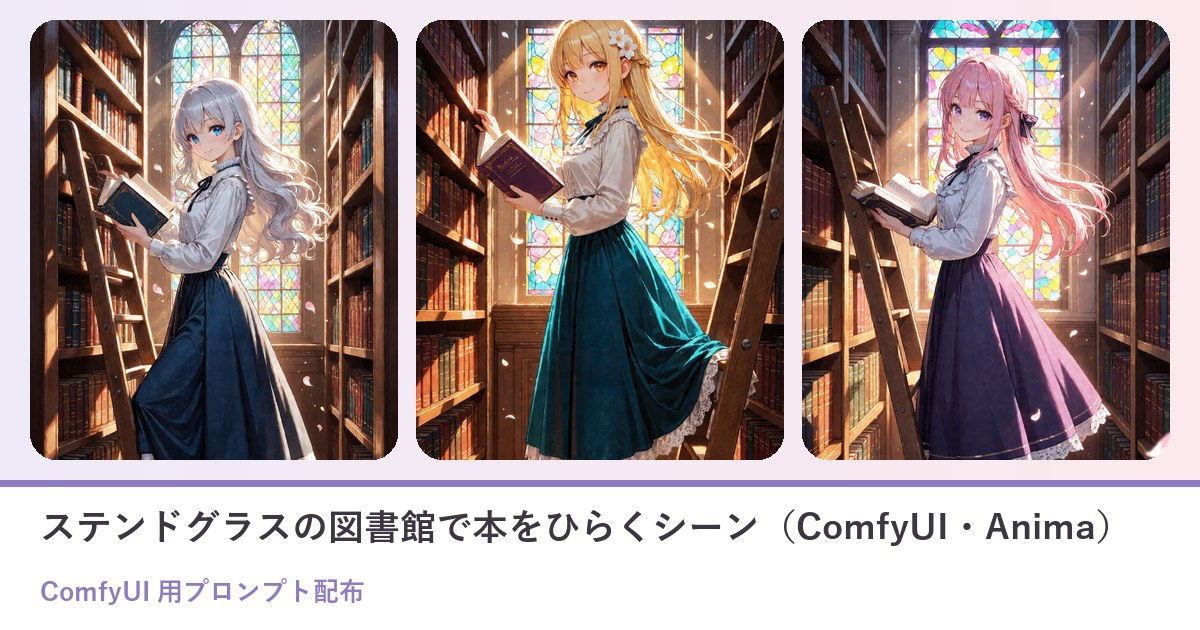
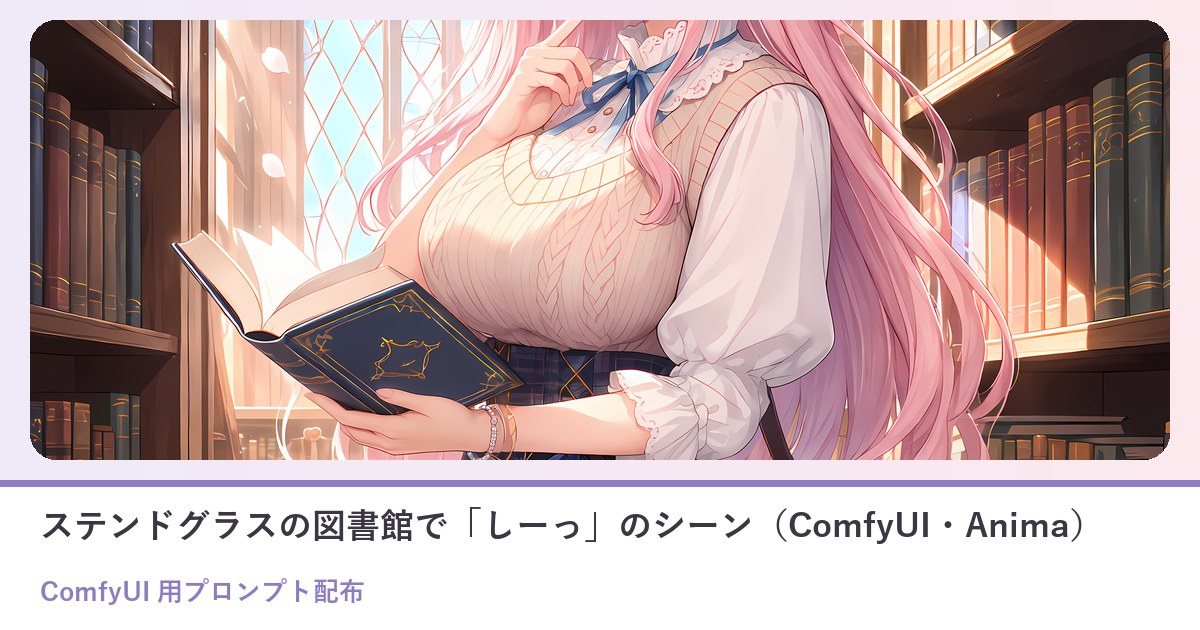
プロンプト配布 10/01 三姉妹 ComfyUI を1枚・LoRA あり／なしに作り直し

diff --git a/prompts/2026-10-01-comfy-y6y0rg0n.html b/prompts/2026-10-01-comfy-y6y0rg0n.html
@@ -1,4 +1,4 @@
-<!DOCTYPE html><html lang="ja"><head><meta charset="UTF-8"><meta name="robots" content="noindex, nofollow, noarchive"><meta name="referrer" content="strict-origin"><meta name="viewport" content="width=device-width, initial-scale=1.0"><meta name="google-site-verification" content="vmr51R1zcK5z3btUMgFGf_4-Veo8pUE7TCdoEpaSpaI"><title>ステンドグラスの図書館で本をひらくシーン（ComfyUI・Anima）</title><meta name="description" content="高い本棚とはしごの並ぶ図書館で、ステンドグラスの色の光を浴びながら本をひらいてふり返る、午後のシーンのプロンプトです。オリキャラがいなくても、そのまま貼るだけで綺麗な女の子で出ます。自分のキャラにしたいときは、1行目の見"><link rel="icon" href="../favicon.ico" sizes="any"><link rel="icon" type="image/png" sizes="32x32" href="../favicon-32x32.png"><link rel="apple-touch-icon" href="../apple-touch-icon.png"><link rel="canonical" href="https://lupinusrossetti.github.io/AIBSPortfolioBlog/prompts/2026-10-01-comfy-y6y0rg0n.html"><meta property="og:type" content="article"><meta property="og:site_name" content="Lupinus Rossetti | AI Bloom Sisters"><meta property="og:title" content="ステンドグラスの図書館で本をひらくシーン（ComfyUI・Anima）"><meta property="og:description" content="高い本棚とはしごの並ぶ図書館で、ステンドグラスの色の光を浴びながら本をひらいてふり返る、午後のシーンのプロンプトです。オリキャラがいなくても、そのまま貼るだけで綺麗な女の子で出ます。自分のキャラにしたいときは、1行目の見"><meta property="og:url" content="https://lupinusrossetti.github.io/AIBSPortfolioBlog/prompts/2026-10-01-comfy-y6y0rg0n.html"><meta property="og:image" content="https://lupinusrossetti.github.io/AIBSPortfolioBlog/prompts/img/2026-10-01-comfy-y6y0rg0n/og.jpg"><meta name="twitter:card" content="summary_large_image"><meta name="twitter:site" content="@irisfionaAIBS"><meta name="twitter:title" content="ステンドグラスの図書館で本をひらくシーン（ComfyUI・Anima）"><meta name="twitter:description" content="高い本棚とはしごの並ぶ図書館で、ステンドグラスの色の光を浴びながら本をひらいてふり返る、午後のシーンのプロンプトです。オリキャラがいなくても、そのまま貼るだけで綺麗な女の子で出ます。自分のキャラにしたいときは、1行目の見"><meta name="twitter:image" content="https://lupinusrossetti.github.io/AIBSPortfolioBlog/prompts/img/2026-10-01-comfy-y6y0rg0n/og.jpg"><script type="application/ld+json">{"@context": "https://schema.org", "@type": "Article", "headline": "ステンドグラスの図書館で本をひらくシーン（ComfyUI・Anima）", "description": "高い本棚とはしごの並ぶ図書館で、ステンドグラスの色の光を浴びながら本をひらいてふり返る、午後のシーンのプロンプトです。オリキャラがいなくても、そのまま貼るだけで綺麗な女の子で出ます。自分のキャラにしたいときは、1行目の見", "image": "https://lupinusrossetti.github.io/AIBSPortfolioBlog/prompts/img/2026-10-01-comfy-y6y0rg0n/og.jpg", "url": "https://lupinusrossetti.github.io/AIBSPortfolioBlog/prompts/2026-10-01-comfy-y6y0rg0n.html", "mainEntityOfPage": "https://lupinusrossetti.github.io/AIBSPortfolioBlog/prompts/2026-10-01-comfy-y6y0rg0n.html", "author": {"@type": "Person", "name": "Lupinus Rossetti"}, "publisher": {"@type": "Organization", "name": "Lupinus Rossetti | AI Bloom Sisters", "logo": {"@type": "ImageObject", "url": "https://lupinusrossetti.github.io/AIBSPortfolioBlog/apple-touch-icon.png"}}, "inLanguage": "ja-JP"}</script><link rel="stylesheet" href="../assets/css/site.css"><link rel="stylesheet" href="../assets/css/decorations.css"><link rel="preconnect" href="https://fonts.googleapis.com"><link rel="preconnect" href="https://fonts.gstatic.com" crossorigin><link href="https://fonts.googleapis.com/css2?family=Great+Vibes&family=Cormorant+Garamond:ital,wght@0,400;0,500;0,600;1,400;1,500&family=Jost:wght@300;400;500&family=Shippori+Mincho:wght@400;500;600&family=Zen+Kaku+Gothic+New:wght@300;400;500&family=Zen+Maru+Gothic:wght@400;500;700&display=swap" rel="stylesheet"><style>:root{--ps-a:var(--lupinus,#8e7cc3);--ps-soft:var(--lupinus-soft,#efeaf8);--ps-line:var(--line,#ece7f1);--ps-ink:var(--ink-soft,#6f6a78)}
+<!DOCTYPE html><html lang="ja"><head><meta charset="UTF-8"><meta name="robots" content="noindex, nofollow, noarchive"><meta name="referrer" content="strict-origin"><meta name="viewport" content="width=device-width, initial-scale=1.0"><meta name="google-site-verification" content="vmr51R1zcK5z3btUMgFGf_4-Veo8pUE7TCdoEpaSpaI"><title>ステンドグラスの図書館で「しーっ」のシーン（ComfyUI・Anima）</title><meta name="description" content="ステンドグラスの光がさしこむ図書館で、本を片手に唇へ指をあてて「しーっ」と微笑む、午後のシーンのプロンプトです。LoRA が無くても、A をそのまま貼るだけで綺麗な女の子で出ます。自分のキャラの LoRA を持っている人"><link rel="icon" href="../favicon.ico" sizes="any"><link rel="icon" type="image/png" sizes="32x32" href="../favicon-32x32.png"><link rel="apple-touch-icon" href="../apple-touch-icon.png"><link rel="canonical" href="https://lupinusrossetti.github.io/AIBSPortfolioBlog/prompts/2026-10-01-comfy-y6y0rg0n.html"><meta property="og:type" content="article"><meta property="og:site_name" content="Lupinus Rossetti | AI Bloom Sisters"><meta property="og:title" content="ステンドグラスの図書館で「しーっ」のシーン（ComfyUI・Anima）"><meta property="og:description" content="ステンドグラスの光がさしこむ図書館で、本を片手に唇へ指をあてて「しーっ」と微笑む、午後のシーンのプロンプトです。LoRA が無くても、A をそのまま貼るだけで綺麗な女の子で出ます。自分のキャラの LoRA を持っている人"><meta property="og:url" content="https://lupinusrossetti.github.io/AIBSPortfolioBlog/prompts/2026-10-01-comfy-y6y0rg0n.html"><meta property="og:image" content="https://lupinusrossetti.github.io/AIBSPortfolioBlog/prompts/img/2026-10-01-comfy-y6y0rg0n/og.jpg"><meta name="twitter:card" content="summary_large_image"><meta name="twitter:site" content="@irisfionaAIBS"><meta name="twitter:title" content="ステンドグラスの図書館で「しーっ」のシーン（ComfyUI・Anima）"><meta name="twitter:description" content="ステンドグラスの光がさしこむ図書館で、本を片手に唇へ指をあてて「しーっ」と微笑む、午後のシーンのプロンプトです。LoRA が無くても、A をそのまま貼るだけで綺麗な女の子で出ます。自分のキャラの LoRA を持っている人"><meta name="twitter:image" content="https://lupinusrossetti.github.io/AIBSPortfolioBlog/prompts/img/2026-10-01-comfy-y6y0rg0n/og.jpg"><script type="application/ld+json">{"@context": "https://schema.org", "@type": "Article", "headline": "ステンドグラスの図書館で「しーっ」のシーン（ComfyUI・Anima）", "description": "ステンドグラスの光がさしこむ図書館で、本を片手に唇へ指をあてて「しーっ」と微笑む、午後のシーンのプロンプトです。LoRA が無くても、A をそのまま貼るだけで綺麗な女の子で出ます。自分のキャラの LoRA を持っている人", "image": "https://lupinusrossetti.github.io/AIBSPortfolioBlog/prompts/img/2026-10-01-comfy-y6y0rg0n/og.jpg", "url": "https://lupinusrossetti.github.io/AIBSPortfolioBlog/prompts/2026-10-01-comfy-y6y0rg0n.html", "mainEntityOfPage": "https://lupinusrossetti.github.io/AIBSPortfolioBlog/prompts/2026-10-01-comfy-y6y0rg0n.html", "author": {"@type": "Person", "name": "Lupinus Rossetti"}, "publisher": {"@type": "Organization", "name": "Lupinus Rossetti | AI Bloom Sisters", "logo": {"@type": "ImageObject", "url": "https://lupinusrossetti.github.io/AIBSPortfolioBlog/apple-touch-icon.png"}}, "inLanguage": "ja-JP"}</script><link rel="stylesheet" href="../assets/css/site.css"><link rel="stylesheet" href="../assets/css/decorations.css"><link rel="preconnect" href="https://fonts.googleapis.com"><link rel="preconnect" href="https://fonts.gstatic.com" crossorigin><link href="https://fonts.googleapis.com/css2?family=Great+Vibes&family=Cormorant+Garamond:ital,wght@0,400;0,500;0,600;1,400;1,500&family=Jost:wght@300;400;500&family=Shippori+Mincho:wght@400;500;600&family=Zen+Kaku+Gothic+New:wght@300;400;500&family=Zen+Maru+Gothic:wght@400;500;700&display=swap" rel="stylesheet"><style>:root{--ps-a:var(--lupinus,#8e7cc3);--ps-soft:var(--lupinus-soft,#efeaf8);--ps-line:var(--line,#ece7f1);--ps-ink:var(--ink-soft,#6f6a78)}
 .ps{max-width:780px;margin:0 auto;padding:0 18px 40px}
 .ps h2{font-size:1.25rem;margin:40px 0 12px;color:var(--ps-a)}
 .ps .ps-lead{color:var(--ps-ink);line-height:1.9}
@@ -44,10 +44,12 @@
 .ps-r18{border:2px solid #ff7fae;background:#241832;color:#f6ecfa;border-radius:16px;padding:14px 16px;line-height:1.8}
 @media(max-width:560px){.ps-ba{grid-template-columns:1fr}.ps-ba .arr{transform:rotate(90deg);text-align:center}.ps-vars,.ps-vars tbody,.ps-vars tr,.ps-vars th,.ps-vars td{display:block;width:auto;white-space:normal}.ps-vars tr:first-child{display:none}.ps-vars tr{border-bottom:1px solid var(--ps-line);padding:4px 0}.ps-vars th,.ps-vars td{border:0;padding:6px 12px}}
 .ps{overflow-wrap:anywhere}.ps-vars td,.ps-vars th{overflow-wrap:anywhere}.ps img{max-width:100%}
-</style><!--ps-meta {"date": "2026-10-01", "title": "ステンドグラスの図書館で本をひらくシーン（ComfyUI・Anima）", "kind": "comfy", "nsfw": false, "summary": "ステンドグラスの光がさす図書館で、本をひらいてふり返る午後の一枚。貼るだけで作れます。", "thumb": "img/2026-10-01-comfy-y6y0rg0n/ex1.webp"}-->
-</head><body class="decor-page decor-bubble"><div class="page-decor" aria-hidden="true"><div class="decor-layer decor-bubble-layer"><i></i><i></i><i></i><i></i><i></i><i></i><i></i><i></i><i></i><i></i><i></i><i></i></div></div><header class="site-header"><div class="container"><a class="brand" href="../index.html"><span class="brand-script">Lupinus</span><span class="brand-sub">AI Bloom Sisters</span></a><button class="menu-toggle" aria-label="menu" onclick="document.getElementById('nav').classList.toggle('open')">≡</button><nav class="nav" id="nav"><a href="../index.html">Home</a><a href="../about.html">About</a><a href="../portfolio.html">Portfolio</a><a href="../gallery.html">Gallery</a><a href="../blog/index.html" class="active">Blog</a><a href="../sns.html">SNS</a><a href="../coming-soon.html">Contact</a></nav></div></header><main class="article"><header class="article-header"><div class="date">2026-10-01<span class="day-chip">プロンプト配布</span></div><h1>ステンドグラスの図書館で本をひらくシーン（ComfyUI・Anima）</h1></header><div class="article-body"><div class="ps"><p><span class="ps-badge">ComfyUI 用</span><span class="ps-badge">2026-10-01</span></p><p class="ps-lead">高い本棚とはしごの並ぶ図書館で、ステンドグラスの色の光を浴びながら本をひらいてふり返る、午後のシーンのプロンプトです。オリキャラがいなくても、そのまま貼るだけで綺麗な女の子で出ます。自分のキャラにしたいときは、1行目の見た目だけ書き換えてください。</p><nav class="ps-toc" aria-label="目次"><p>📑 目次</p><ol><li><a href="#sec1">作例</a></li><li><a href="#sec2">3人のおしゃべり（図書館ではお静かに）</a></li><li><a href="#sec3">使い方（3ステップ）</a></li><li><a href="#sec4">プロンプト</a></li><li><a href="#sec5">必要なもの（ComfyUI）</a></li><li><a href="#sec6">メモ</a></li><li><a href="#sec7">配布ルール</a></li><li><a href="#sec8">バックナンバー</a></li></ol></nav><h2 id="sec1">作例</h2><div class="ps-ex"><figure><img src="img/2026-10-01-comfy-y6y0rg0n/ex1.webp" alt="1行目そのまま（1girl, solo, long hair, wavy hair, silver hair, blue eyes）" loading="lazy"><figcaption>1行目そのまま（1girl, solo, long hair, wavy hair, silver hair, blue eyes）</figcaption></figure><figure><img src="img/2026-10-01-comfy-y6y0rg0n/ex2.webp" alt="1行目を「1girl, solo, long hair, blonde hair, hair flower, amber eyes」に" loading="lazy"><figcaption>1行目を「1girl, solo, long hair, blonde hair, hair flower, amber eyes」に</figcaption></figure><figure><img src="img/2026-10-01-comfy-y6y0rg0n/ex3.webp" alt="1行目を「1girl, solo, long hair, pink hair, braid, purple eyes」に" loading="lazy"><figcaption>1行目を「1girl, solo, long hair, pink hair, braid, purple eyes」に</figcaption></figure><figure><img src="img/2026-10-01-comfy-y6y0rg0n/ex4.webp" alt="1行目を「1girl, solo, short hair, brown hair, glasses, green eyes」に" loading="lazy"><figcaption>1行目を「1girl, solo, short hair, brown hair, glasses, green eyes」に</figcaption></figure></div><p style="font-size:.82rem;color:var(--ps-ink)">※作例の画像の転載・保存しての再配布はご遠慮ください。</p><h2 id="sec2">3人のおしゃべり（図書館ではお静かに）</h2><div class="ps-chat"><img src="img/2026-10-01-comfy-y6y0rg0n/talk_iris_laugh.webp" alt="アイリス" loading="lazy"><div><div class="who">アイリス</div><div class="bub">見て見て！ ステンドグラスの光が床まで虹色になってる！ あたしもここで本読みたい〜！</div></div></div><div class="ps-chat r"><img src="img/2026-10-01-comfy-y6y0rg0n/talk_fiona_shy.webp" alt="フィオナ" loading="lazy"><div><div class="who">フィオナ</div><div class="bub">高い本棚とはしご……花びらまで舞っていて、物語の中の図書館みたいです</div></div></div><div class="ps-chat r"><img src="img/2026-10-01-comfy-y6y0rg0n/talk_lupinus_happy.webp" alt="ルピナス" loading="lazy"><div><div class="who">ルピナス</div><div class="bub">1行目の髪の色や眼鏡を書き換えるだけで、金髪にも、ピンクの三つ編みにも、眼鏡の女の子にもなりますよ</div></div></div><div class="ps-chat"><img src="img/2026-10-01-comfy-y6y0rg0n/talk_iris_devious.webp" alt="アイリス" loading="lazy"><div><div class="who">アイリス</div><div class="bub">ねえねえ、スカートの色が毎回ちがうよ？ 紺とか、青緑とか、紫とか！</div></div></div><div class="ps-chat r"><img src="img/2026-10-01-comfy-y6y0rg0n/talk_fiona_thinking.webp" alt="フィオナ" loading="lazy"><div><div class="who">フィオナ</div><div class="bub">決めたいときは、2行目のスカートの前に色を足せばいいみたいです……メモしておきますね</div></div></div><div class="ps-chat r"><img src="img/2026-10-01-comfy-y6y0rg0n/talk_lupinus_wink.webp" alt="ルピナス" loading="lazy"><div><div class="who">ルピナス</div><div class="bub">オリキャラがいなくても、そのまま貼るだけで大丈夫。図書館ではお静かに、ですよ</div></div></div><h2 id="sec3">使い方（3ステップ）</h2><ol class="ps-steps"><li>ComfyUI で Anima のモデルを読み、基本の画像生成（テキストから画像）の画面にする</li><li>下のポジティブとネガティブをワンタップでコピーして貼る（自分のキャラにするなら1行目だけ書き換える）</li><li>「推奨値」の大きさ・steps・CFG にして生成する（できれば 1.5 倍の hires fix も）</li></ol><h2 id="sec4">プロンプト</h2><div class="ps-note" style="margin-bottom:12px"><b>変えるのは1行目（色の付いた行）だけ</b><ul><li>1行目＝キャラの見た目（髪の色・髪型・目の色など）。自分のキャラの特徴に書き換えてね</li><li>オリキャラがいない人は、<b>そのまま</b>コピーして使えばOK（作例の女の子で出ます）</li><li>自分のキャラの LoRA がある人は、1行目に LoRA のトリガー語を入れてね</li><li>2行目から下（シーン）と、ネガティブプロンプトは変えずにそのまま</li><li>🚫 版権キャラの名前・版権キャラの LoRA を入れて使うのは固く禁止です（下の「配布ルール」）</li></ul></div><div class="ps-box"><button class="ps-copy" type="button" data-target="ps-prompt">📋 ワンタップでコピー</button><p style="margin:0 0 8px;font-size:.82rem;color:var(--ps-a)">ポジティブプロンプト</p><pre><mark class="ps-in" data-key="キャラの行">1girl, solo, long hair, wavy hair, silver hair, blue eyes</mark>
-masterpiece, best quality, score_7, safe, smile, looking at viewer, standing on ladder, library ladder, holding book, open book, hand on ladder, white blouse, frilled collar, neck ribbon, long skirt, lace trim, mary janes, from side, full body, library, tall bookshelves, bookshelf, stained glass window, colorful light, light rays, dappled light, dust particles, afternoon, sunlight, floating petals, depth of field, detailed background, scenery, cinematic lighting, warm colors</pre><textarea class="ps-copyarea" id="ps-prompt" readonly aria-hidden="true" tabindex="-1">1girl, solo, long hair, wavy hair, silver hair, blue eyes
-masterpiece, best quality, score_7, safe, smile, looking at viewer, standing on ladder, library ladder, holding book, open book, hand on ladder, white blouse, frilled collar, neck ribbon, long skirt, lace trim, mary janes, from side, full body, library, tall bookshelves, bookshelf, stained glass window, colorful light, light rays, dappled light, dust particles, afternoon, sunlight, floating petals, depth of field, detailed background, scenery, cinematic lighting, warm colors</textarea></div><div style="height:12px"></div><div class="ps-box"><button class="ps-copy" type="button" data-target="ps-negative">📋 ワンタップでコピー</button><p style="margin:0 0 8px;font-size:.82rem;color:var(--ps-a)">ネガティブプロンプト</p><pre>worst quality, low quality, lowres, bad anatomy, bad hands, extra fingers, missing fingers, fused fingers, blurry, jpeg artifacts, text, watermark, signature, logo, extra person, multiple girls, panties, pantyshot, cropped, out of frame, japanese text, chinese text, korean text, kanji, hiragana, katakana, calligraphy</pre><textarea class="ps-copyarea" id="ps-negative" readonly aria-hidden="true" tabindex="-1">worst quality, low quality, lowres, bad anatomy, bad hands, extra fingers, missing fingers, fused fingers, blurry, jpeg artifacts, text, watermark, signature, logo, extra person, multiple girls, panties, pantyshot, cropped, out of frame, japanese text, chinese text, korean text, kanji, hiragana, katakana, calligraphy</textarea></div><h2 id="sec5">必要なもの（ComfyUI）</h2><div class="ps-note">🧩 <b>カスタムノードは使っていません</b>。LoRA も要りません。ComfyUI の基本の画像生成（テキストから画像）に、ポジティブ・ネガティブを貼って、下の推奨値にするだけです。</div><table class="ps-vars" style="margin-top:12px"><tr><th>モデル</th><th>ファイル</th><th>置き場</th></tr><tr><td>Anima 系のモデル</td><td>PrismPalette_ANIMA_v1 など好きな Anima</td><td><code>models/diffusion_models</code></td></tr><tr><td>テキストエンコーダ（Anima 用）</td><td>qwen_3_06b_base.safetensors</td><td><code>models/text_encoders</code></td></tr><tr><td>VAE（Anima 用）</td><td>qwen_image_vae.safetensors</td><td><code>models/vae</code></td></tr></table><h2>推奨値</h2><table class="ps-vars"><tr><th>大きさ</th><td colspan="2">864×1536（縦長＝全身の立ち姿）</td></tr><tr><th>steps</th><td colspan="2">30</td></tr><tr><th>CFG</th><td colspan="2">4.5</td></tr><tr><th>sampler</th><td colspan="2">er_sde</td></tr><tr><th>scheduler</th><td colspan="2">beta</td></tr><tr><th>hires fix（任意）</th><td colspan="2">1.5 倍に拡大して denoise 0.4・同じ steps と CFG（作例はこれ）</td></tr><tr><th>LoRA</th><td colspan="2">要りません（自分のキャラの LoRA があれば使ってOK）</td></tr></table><h2 id="sec6">メモ</h2><ul class="ps-rules"><li>1行目には見た目だけを書いてください（髪の色・長さ・髪型・髪飾り・目の色・眼鏡など）。服・場所・光は2行目からに入っています。</li><li>手は本を持つ形にしてあるので、くずれにくくなっています。くずれたら seed を変えて何枚か焼いてください。</li><li>服の色は seed で変わります（紺・青緑・紫など）。決めたいときは2行目の long skirt の前に navy blue などの色を足してください。</li></ul><h2 id="sec7">配布ルール</h2><ul class="ps-rules"><li>⭕ プロンプトの改変は自由です。</li><li>⭕ 生成した画像は SNS に投稿して大丈夫です。</li><li>❌ プロンプト文そのものの転載・再配布・販売はしないでください。</li><li>❌ 自作のプロンプトだと名乗ることはやめてください。</li><li>❌ このページの作例画像の無断転載はしないでください。</li><li class="ps-rights">🚫 <b>アニメ・漫画・ゲームなどの版権キャラクター（著作権・商標のあるキャラ）、他の人のキャラクターやイラスト、実在の人物の写真を添付画像にして使うことは固く禁止します。</b>版権キャラの名前や、版権キャラの LoRA を入れて使うことも禁止です。</li><li>✅ 添付してよいのは、<b>自分で作ったキャラクター・自分が権利を持つ画像</b>（または権利者から使ってよいと言われた画像）だけです。</li><li>⚠ 生成した画像の使い方（投稿・公開など）は、使った人の責任でお願いします。権利の問題が起きても、配布者は責任を負えません。</li><li>💌 使ったら <b>#ルピナスプロンプト</b> を付けて見せてくれたら、とても嬉しいです（任意です）。</li></ul><h2 id="sec8">バックナンバー</h2><div class="ps-note">📚 これまでの配布は <a href="index.html"><b>バックナンバー</b></a> にまとめてあります（作例の絵と内容が一覧で見られます）。お友だちに教えるときは、バックナンバーのページの URL を送ればOKです。</div></div></div></main><footer class="site-footer"><div class="container"><div class="brand-script">Lupinus Rossetti</div><p class="tagline">AI Bloom Sisters &mdash; flower language: imagination</p><div class="sns-row"><a class="sns-link" href="https://x.com/irisfionaAIBS" target="_blank" rel="noopener"><span class="dot"></span>X (Twitter)</a><a class="sns-link" href="https://www.youtube.com/@AIBloomSisters" target="_blank" rel="noopener"><span class="dot"></span>YouTube</a><a class="sns-link" href="https://note.com/rupi_airupi" target="_blank" rel="noopener"><span class="dot"></span>note</a><a class="sns-link" href="https://lupinus-rossetti.fanbox.cc/" target="_blank" rel="noopener"><span class="dot"></span>FANBOX</a></div><p class="copy">&copy; 2026 AI Bloom Sisters. All rights reserved.</p><p style="font-size:.78em;color:var(--ink-faint);margin-top:8px"><a href="../privacy.html" style="color:var(--ink-faint)">プライバシーポリシー</a>　<a href="../stream-info.html" style="color:var(--ink-faint)">配信のご案内</a></p></div></footer><script>(function(){if(window.matchMedia&&window.matchMedia('(prefers-reduced-motion: reduce)').matches)return;var els=document.querySelectorAll('.reveal');if(!els.length||!('IntersectionObserver'in window))return;var io=new IntersectionObserver(function(es){es.forEach(function(e){if(e.isIntersecting){e.target.classList.add('is-visible');io.unobserve(e.target);}});},{rootMargin:'0px 0px -10% 0px'});els.forEach(function(el){io.observe(el);});})();</script><script>(function(){document.querySelectorAll('.ps-copy').forEach(function(b){
+</style><!--ps-meta {"date": "2026-10-01", "title": "ステンドグラスの図書館で「しーっ」のシーン（ComfyUI・Anima）", "kind": "comfy", "nsfw": false, "summary": "ステンドグラスの図書館で、本を片手に「しーっ」と微笑む午後の一枚。LoRA あり／なしの2通り。", "thumb": "img/2026-10-01-comfy-y6y0rg0n/ex1.webp"}-->
+</head><body class="decor-page decor-bubble"><div class="page-decor" aria-hidden="true"><div class="decor-layer decor-bubble-layer"><i></i><i></i><i></i><i></i><i></i><i></i><i></i><i></i><i></i><i></i><i></i><i></i></div></div><header class="site-header"><div class="container"><a class="brand" href="../index.html"><span class="brand-script">Lupinus</span><span class="brand-sub">AI Bloom Sisters</span></a><button class="menu-toggle" aria-label="menu" onclick="document.getElementById('nav').classList.toggle('open')">≡</button><nav class="nav" id="nav"><a href="../index.html">Home</a><a href="../about.html">About</a><a href="../portfolio.html">Portfolio</a><a href="../gallery.html">Gallery</a><a href="../blog/index.html" class="active">Blog</a><a href="../sns.html">SNS</a><a href="../coming-soon.html">Contact</a></nav></div></header><main class="article"><header class="article-header"><div class="date">2026-10-01<span class="day-chip">プロンプト配布</span></div><h1>ステンドグラスの図書館で「しーっ」のシーン（ComfyUI・Anima）</h1></header><div class="article-body"><div class="ps"><p><span class="ps-badge">ComfyUI 用</span><span class="ps-badge">2026-10-01</span></p><p class="ps-lead">ステンドグラスの光がさしこむ図書館で、本を片手に唇へ指をあてて「しーっ」と微笑む、午後のシーンのプロンプトです。LoRA が無くても、A をそのまま貼るだけで綺麗な女の子で出ます。自分のキャラの LoRA を持っている人は B をどうぞ。</p><nav class="ps-toc" aria-label="目次"><p>📑 目次</p><ol><li><a href="#sec1">作例</a></li><li><a href="#sec2">3人のおしゃべり（図書館ではお静かに）</a></li><li><a href="#sec3">使い方（3ステップ）</a></li><li><a href="#sec4">プロンプト</a></li><li><a href="#sec5">必要なもの（ComfyUI）</a></li><li><a href="#sec6">メモ</a></li><li><a href="#sec7">配布ルール</a></li></ol></nav><h2 id="sec1">作例</h2><div class="ps-ex"><figure><img src="img/2026-10-01-comfy-y6y0rg0n/ex1.webp" alt="フィオナ（三姉妹の LoRA・いつもの投稿と同じ仕上げ）" loading="lazy"><figcaption>フィオナ（三姉妹の LoRA・いつもの投稿と同じ仕上げ）</figcaption></figure></div><p style="font-size:.82rem;color:var(--ps-ink)">※作例の画像の転載・保存しての再配布はご遠慮ください。</p><h2 id="sec2">3人のおしゃべり（図書館ではお静かに）</h2><div class="ps-chat"><img src="img/2026-10-01-comfy-y6y0rg0n/talk_iris_laugh.webp" alt="アイリス" loading="lazy"><div><div class="who">アイリス</div><div class="bub">見て見て！ フィオナが図書館で、指を口にあてて「しーっ」ってしてる〜！ ステンドグラスの光がきれい！</div></div></div><div class="ps-chat r"><img src="img/2026-10-01-comfy-y6y0rg0n/talk_fiona_shy.webp" alt="フィオナ" loading="lazy"><div><div class="who">フィオナ</div><div class="bub">アーガイルのベストに、チェックのロングスカート……肩から下げた革のかばんまで、私の好きなものばかりです</div></div></div><div class="ps-chat r"><img src="img/2026-10-01-comfy-y6y0rg0n/talk_lupinus_happy.webp" alt="ルピナス" loading="lazy"><div><div class="who">ルピナス</div><div class="bub">LoRA が無い人は A をそのまま貼るだけ。1行目の髪の色や目の色を変えれば、自分のキャラにも近づけられますよ</div></div></div><div class="ps-chat"><img src="img/2026-10-01-comfy-y6y0rg0n/talk_iris_devious.webp" alt="アイリス" loading="lazy"><div><div class="who">アイリス</div><div class="bub">LoRA がある人は B ね！ 1行目の your_lora_trigger を自分のトリガー語にするだけだって！</div></div></div><div class="ps-chat r"><img src="img/2026-10-01-comfy-y6y0rg0n/talk_fiona_thinking.webp" alt="フィオナ" loading="lazy"><div><div class="who">フィオナ</div><div class="bub">床に花びらが落ちていて……図書館なのに、ちょっとだけ物語の中みたいです</div></div></div><div class="ps-chat r"><img src="img/2026-10-01-comfy-y6y0rg0n/talk_lupinus_wink.webp" alt="ルピナス" loading="lazy"><div><div class="who">ルピナス</div><div class="bub">オリキャラがいなくても大丈夫。図書館ではお静かに、ですよ</div></div></div><h2 id="sec3">使い方（3ステップ）</h2><ol class="ps-steps"><li>ComfyUI で Anima のモデルを読み、基本の画像生成（テキストから画像）の画面にする</li><li>下の A（LoRA なし）か B（LoRA あり）のポジティブと、ネガティブをワンタップでコピーして貼る</li><li>「推奨値」の大きさ・steps・CFG にして生成する（できれば 1.5 倍の hires fix も）</li></ol><h2 id="sec4">プロンプト</h2><div class="ps-note" style="margin-bottom:12px"><b>変えるのは1行目（色の付いた行）だけ</b><ul><li>使うプロンプトは2通り＝<b>A. LoRA を持っていない人</b>／<b>B. 自分のキャラの LoRA を持っている人</b>。どちらも丸ごとコピーして貼るだけ</li><li>A は<b>そのまま</b>でも綺麗な女の子で出ます。自分のキャラにするなら1行目の髪の色・髪型・目の色を書き換えるだけ</li><li>B は1行目の <code>your_lora_trigger</code> を自分の LoRA のトリガー語に置きかえるだけ（LoRA の強さは下の表）</li><li>2行目から下（シーン）と、ネガティブプロンプトは変えずにそのまま</li><li>🚫 版権キャラの名前・版権キャラの LoRA を入れて使うのは固く禁止です（下の「配布ルール」）</li></ul></div><h3 style="margin:14px 0 8px">A. LoRA を持っていない人（そのままでもOK）</h3><div class="ps-box"><button class="ps-copy" type="button" data-target="ps-prompt">📋 ワンタップでコピー</button><p style="margin:0 0 8px;font-size:.82rem;color:var(--ps-a)">ポジティブプロンプト</p><pre><mark class="ps-in" data-key="キャラの行">1girl, solo, long hair, wavy hair, silver hair, blue eyes</mark>
+masterpiece, best quality, score_7, safe, full body, from side, looking at viewer, smile, finger to mouth, standing, ladder, holding book, open book, head tilt, falling petals, library, bookshelf, stained glass, light rays, dust particles, day, clear sky, sunlight, warm colors, depth of field, white blouse, frilled collar, puffy sleeves, sweater vest, argyle clothes, cable knit, blue ribbon, neck ribbon, high-waist skirt, long skirt, plaid skirt, lace trim, waist ribbon, thighhighs, mary janes, hair ribbon, pearl earrings, bracelet, satchel, petals</pre><textarea class="ps-copyarea" id="ps-prompt" readonly aria-hidden="true" tabindex="-1">1girl, solo, long hair, wavy hair, silver hair, blue eyes
+masterpiece, best quality, score_7, safe, full body, from side, looking at viewer, smile, finger to mouth, standing, ladder, holding book, open book, head tilt, falling petals, library, bookshelf, stained glass, light rays, dust particles, day, clear sky, sunlight, warm colors, depth of field, white blouse, frilled collar, puffy sleeves, sweater vest, argyle clothes, cable knit, blue ribbon, neck ribbon, high-waist skirt, long skirt, plaid skirt, lace trim, waist ribbon, thighhighs, mary janes, hair ribbon, pearl earrings, bracelet, satchel, petals</textarea></div><h3 style="margin:18px 0 8px">B. 自分のキャラの LoRA を持っている人</h3><div class="ps-box"><button class="ps-copy" type="button" data-target="ps-prompt-lora">📋 ワンタップでコピー</button><p style="margin:0 0 8px;font-size:.82rem;color:var(--ps-a)">ポジティブプロンプト（LoRA 用）</p><pre><mark class="ps-in" data-key="キャラの行">1girl, solo, your_lora_trigger</mark>
+masterpiece, best quality, score_7, safe, full body, from side, looking at viewer, smile, finger to mouth, standing, ladder, holding book, open book, head tilt, falling petals, library, bookshelf, stained glass, light rays, dust particles, day, clear sky, sunlight, warm colors, depth of field, white blouse, frilled collar, puffy sleeves, sweater vest, argyle clothes, cable knit, blue ribbon, neck ribbon, high-waist skirt, long skirt, plaid skirt, lace trim, waist ribbon, thighhighs, mary janes, hair ribbon, pearl earrings, bracelet, satchel, petals</pre><textarea class="ps-copyarea" id="ps-prompt-lora" readonly aria-hidden="true" tabindex="-1">1girl, solo, your_lora_trigger
+masterpiece, best quality, score_7, safe, full body, from side, looking at viewer, smile, finger to mouth, standing, ladder, holding book, open book, head tilt, falling petals, library, bookshelf, stained glass, light rays, dust particles, day, clear sky, sunlight, warm colors, depth of field, white blouse, frilled collar, puffy sleeves, sweater vest, argyle clothes, cable knit, blue ribbon, neck ribbon, high-waist skirt, long skirt, plaid skirt, lace trim, waist ribbon, thighhighs, mary janes, hair ribbon, pearl earrings, bracelet, satchel, petals</textarea></div><table class="ps-vars" style="margin-top:10px"><tr><th>LoRA のつなぎ方</th><td colspan="2">Load Diffusion Model（Anima）のうしろに LoraLoaderModelOnly を1つ足す（CLIP にはつながない）</td></tr><tr><th>LoRA の強さ（strength_model）</th><td colspan="2">0.8〜0.9（作例は 0.85）</td></tr><tr><th>1行目</th><td colspan="2">your_lora_trigger を自分の LoRA のトリガー語に置きかえる（髪や目の色は LoRA が覚えているので書かなくてOK）</td></tr></table><p style="font-size:.85rem;margin:10px 0 0">ネガティブプロンプトは A・B 共通（下）です。</p><div style="height:12px"></div><div class="ps-box"><button class="ps-copy" type="button" data-target="ps-negative">📋 ワンタップでコピー</button><p style="margin:0 0 8px;font-size:.82rem;color:var(--ps-a)">ネガティブプロンプト</p><pre>worst quality, low quality, lowres, bad anatomy, bad hands, extra fingers, missing fingers, fused fingers, blurry, jpeg artifacts, text, watermark, signature, logo, extra person, multiple girls, cropped, out of frame, japanese text, chinese text, korean text, kanji, hiragana, katakana, calligraphy</pre><textarea class="ps-copyarea" id="ps-negative" readonly aria-hidden="true" tabindex="-1">worst quality, low quality, lowres, bad anatomy, bad hands, extra fingers, missing fingers, fused fingers, blurry, jpeg artifacts, text, watermark, signature, logo, extra person, multiple girls, cropped, out of frame, japanese text, chinese text, korean text, kanji, hiragana, katakana, calligraphy</textarea></div><h2 id="sec5">必要なもの（ComfyUI）</h2><div class="ps-note">🧩 <b>カスタムノードは使っていません</b>。LoRA が無くても大丈夫（A のプロンプト）。ComfyUI の基本の画像生成（テキストから画像）に、ポジティブ・ネガティブを貼って、下の推奨値にするだけです。LoRA を使う人は「LoraLoaderModelOnly」を1つ足すだけ（B のプロンプト）。</div><table class="ps-vars" style="margin-top:12px"><tr><th>モデル</th><th>ファイル</th><th>置き場</th></tr><tr><td>Anima 系のモデル</td><td>PrismPalette_ANIMA_v1 など好きな Anima</td><td><code>models/diffusion_models</code></td></tr><tr><td>テキストエンコーダ（Anima 用）</td><td>qwen_3_06b_base.safetensors</td><td><code>models/text_encoders</code></td></tr><tr><td>VAE（Anima 用）</td><td>qwen_image_vae.safetensors</td><td><code>models/vae</code></td></tr></table><h2>推奨値</h2><table class="ps-vars"><tr><th>大きさ</th><td colspan="2">864×1536（縦長＝全身と本棚の高さ）</td></tr><tr><th>steps</th><td colspan="2">30</td></tr><tr><th>CFG</th><td colspan="2">4.5</td></tr><tr><th>sampler</th><td colspan="2">er_sde</td></tr><tr><th>scheduler</th><td colspan="2">beta</td></tr><tr><th>hires fix（任意）</th><td colspan="2">1.5 倍に拡大して denoise 0.4・同じ steps と CFG（試し焼きはこれ）</td></tr><tr><th>LoRA</th><td colspan="2">無くてOK（A のプロンプト）。自分のキャラの LoRA があれば B のプロンプトで</td></tr></table><h2 id="sec6">メモ</h2><ul class="ps-rules"><li>A（LoRA なし）は1行目の髪の色・髪型・目の色を書き換えるだけで、自分のキャラに近づけられます。そのままでも綺麗な女の子で出ます（試し焼きで確かめてあります）。</li><li>B（LoRA あり）は1行目の your_lora_trigger を自分の LoRA のトリガー語にするだけ。髪や目の色は LoRA が覚えているので書かなくて大丈夫です。</li><li>手は「本を持つ」「口もとに指」で形が決まっているので、くずれにくくなっています。くずれたら seed を変えて何枚か焼いてください。</li><li>本の表紙にもにょもにょした文字が出ることがあります。気になったら seed を変えてください。</li><li>ほかのモデル（SDXL・Illustrious など）でも、2行目の先頭の masterpiece, best quality, score_7, safe をそのモデルの品質の語に替えれば使えます（作例は Anima です）。</li></ul><h2 id="sec7">配布ルール</h2><ul class="ps-rules"><li>⭕ プロンプトの改変は自由です。</li><li>⭕ 生成した画像は SNS に投稿して大丈夫です。</li><li>❌ プロンプト文そのものの転載・再配布・販売はしないでください。</li><li>❌ 自作のプロンプトだと名乗ることはやめてください。</li><li>❌ このページの作例画像の無断転載はしないでください。</li><li class="ps-rights">🚫 <b>アニメ・漫画・ゲームなどの版権キャラクター（著作権・商標のあるキャラ）、他の人のキャラクターやイラスト、実在の人物の写真を添付画像にして使うことは固く禁止します。</b>版権キャラの名前や、版権キャラの LoRA を入れて使うことも禁止です。</li><li>✅ 添付してよいのは、<b>自分で作ったキャラクター・自分が権利を持つ画像</b>（または権利者から使ってよいと言われた画像）だけです。</li><li>⚠ 生成した画像の使い方（投稿・公開など）は、使った人の責任でお願いします。権利の問題が起きても、配布者は責任を負えません。</li><li>💌 使ったら <b>#ルピナスプロンプト</b> を付けて見せてくれたら、とても嬉しいです（任意です）。</li></ul></div></div></main><footer class="site-footer"><div class="container"><div class="brand-script">Lupinus Rossetti</div><p class="tagline">AI Bloom Sisters &mdash; flower language: imagination</p><div class="sns-row"><a class="sns-link" href="https://x.com/irisfionaAIBS" target="_blank" rel="noopener"><span class="dot"></span>X (Twitter)</a><a class="sns-link" href="https://www.youtube.com/@AIBloomSisters" target="_blank" rel="noopener"><span class="dot"></span>YouTube</a><a class="sns-link" href="https://note.com/rupi_airupi" target="_blank" rel="noopener"><span class="dot"></span>note</a><a class="sns-link" href="https://lupinus-rossetti.fanbox.cc/" target="_blank" rel="noopener"><span class="dot"></span>FANBOX</a></div><p class="copy">&copy; 2026 AI Bloom Sisters. All rights reserved.</p><p style="font-size:.78em;color:var(--ink-faint);margin-top:8px"><a href="../privacy.html" style="color:var(--ink-faint)">プライバシーポリシー</a>　<a href="../stream-info.html" style="color:var(--ink-faint)">配信のご案内</a></p></div></footer><script>(function(){if(window.matchMedia&&window.matchMedia('(prefers-reduced-motion: reduce)').matches)return;var els=document.querySelectorAll('.reveal');if(!els.length||!('IntersectionObserver'in window))return;var io=new IntersectionObserver(function(es){es.forEach(function(e){if(e.isIntersecting){e.target.classList.add('is-visible');io.unobserve(e.target);}});},{rootMargin:'0px 0px -10% 0px'});els.forEach(function(el){io.observe(el);});})();</script><script>(function(){document.querySelectorAll('.ps-copy').forEach(function(b){
 b.addEventListener('click',function(){var t=document.getElementById(b.getAttribute('data-target'));
 var txt=t.value;function ok(){b.textContent='コピーしました';b.classList.add('done');
 setTimeout(function(){b.textContent='📋 ワンタップでコピー';b.classList.remove('done');},1800);}
